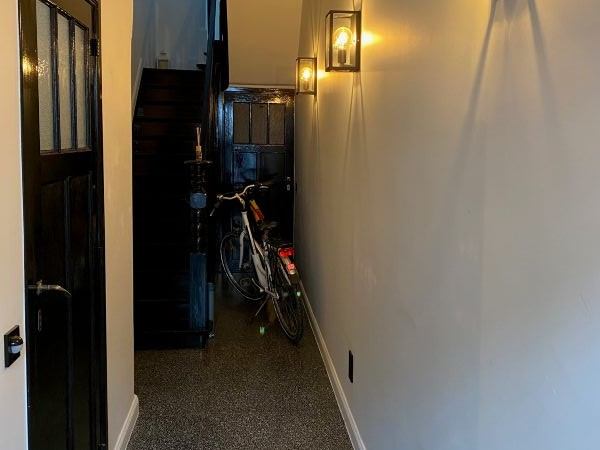
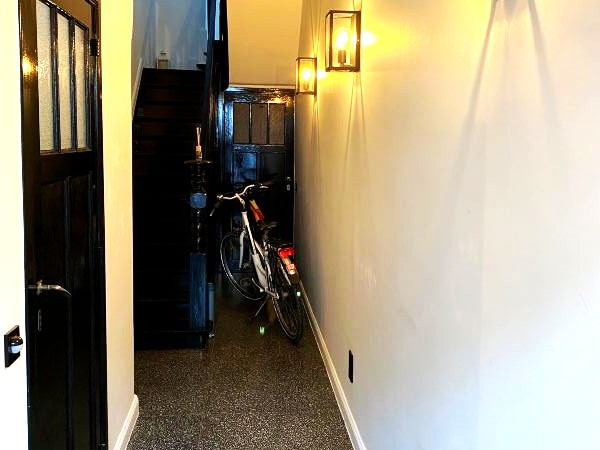
Add files via upload

diff --git a/index.html b/index.html
@@ -3,24 +3,32 @@
 <head>
 <meta charset="UTF-8" />
 <meta name="viewport" content="width=device-width, initial-scale=1.0" />
+<meta name="format-detection" content="telephone=no">  
 <title>Vakantiewoning Nieuwpoort-Stad</title>
 <style>
 body {
 font-family: Arial, sans-serif;
-margin: 0;
+margin: 0 auto;
 padding: 20px;
 background-color: #f9f9f9;
+max-width: 500px;
+color: #333333;
 }
 h1 {
 text-align: center;
 margin-bottom: 40px;
+max-width: 450px;
+color: #1a1a1a;
 }
 .item {
 margin-bottom: 30px;
+text-align: justify;
+max-width: 450px;
 background: #fff;
 padding: 15px;
 border-radius: 8px;
 box-shadow: 0 2px 20px rgba(0,0,0,0.1);
+color: #4D4D4D;
 }
 .item img {
 max-width: 100%;
@@ -28,26 +36,28 @@ border-radius: 8px;
 }
 .item2 {
 margin-top: 40px;
-padding: 30px;
+margin-bottom: 40px;
+text-align: justify;
+max-width: 450px;
 background: #D6D6D6;
+padding: 15px;
 border-radius: 8px;
+box-shadow: 0 2px 20px rgba(0,0,0,0.1);
+color: #1a1a1a;
 }
 </style>
 </head>
 <body>
-
-<h1>Vakantiewoning Nieuwpoort-Stad</h1>
-
-
+<h1>Vakantiewoning<br>Nieuwpoort-Stad</h1>
 
 <div class="item">
 <img src="vakantiewoning.jpg" alt="Vakantiewoning">
-<p>Leuke vakantiewoning gelegen in Nieuwpoort-Stad, voor maximum 4 personen, adres Duinkerkestraat 51, een rustige straat dicht bij het historisch centrum en marktplein.</p>
+<p>Genieten van de verkwikkende zeelucht en voorbij glijdende zeemeeuwen in deze leuke vakantiewoning, voor max 4 personen, adres Duinkerkestraat 51, een rustige straat dichtbij het historisch centrum en marktplein van Nieuwpoort-Stad.</p>
 </div>
 
 <div class="item">
 <img src="voorplaats.jpg" alt="Voorplaats">
-<p>De klassieke "voorplaats" om tot rust te komen.</p>
+<p>Starten doen we in de klassieke voorplaats waar de rust ons overvalt.</p>
 </div>
 
 <div class="item">
@@ -57,22 +67,17 @@ border-radius: 8px;
 
 <div class="item">
 <img src="eetplaats.jpg" alt="Eetplaats">
-<p>Eindigend in de lichtrijke eetruimte naast de open keuken.</p>
+<p>Eindigend in de lichtrijke eetruimte, inclusief kinderstoel, naast de open keuken.</p>
 </div>
 
 <div class="item">
 <img src="keuken.jpg" alt="Keuken">
-<p>Volledig uitgeruste moderne keuken met SMEG fornuis, oven, microgolf, frigo, vaatwas, koffiezet, servies, ...</p>
+<p>Volledig uitgeruste moderne keuken met SMEG fornuis, oven, microgolf, frigo, vaatwas, koffiezet, servies, allerhande keukengerief. Ook warme koffie en geurige thee staan voor je klaar.</p>
 </div>
 
 <div class="item">
 <img src="tuin.jpg" alt="Tuin">
-<p>Gezellig stadstuintje met overdekt terras.</p>
-</div>
-
-<div class="item">
-<img src="zonneterras.jpg" alt="Zonneterras">
-<p>Achteraan de vakantiewoning vinden we ook een aangenaam zonneterras om te genieten van de ondergaande avondzon.</p>
+<p>Gezellig en volledig groen ommuurd stadstuintje met overdekt terras.</p>
 </div>
 
 <div class="item">
@@ -82,22 +87,22 @@ border-radius: 8px;
 
 <div class="item">
 <img src="belpop.jpg" alt="Belpop">
-<p>Een ruime verzameling belpop vinyl, zowel hedendaags als helemaal terug tot in de jaren 80, klinkt door de bluetooth Bose luidsprekers.</p>
+<p>Een ruime verzameling Belpop vinyl, zowel hedendaags als helemaal terug tot in de heerlijke jaren 80, klinkt door de bluetooth Bose luidspreker.</p>
 </div>
 
 <div class="item">
 <img src="strips.jpg" alt="Strips">
-<p>Ga terug in de tijd en herontdek de strips van vroeger: De Rode Ridder, Suske & Wiske, Bakelandt, Robert & Bertrand, Jommeke, Kiekeboe, Yoko Tsuno, ...</p>
+<p>Herontdek een reeks oude strips: De Rode Ridder, Suske & Wiske, Bakelandt, Robert & Bertrand, Jommeke, Kiekeboe, Yoko Tsuno, FC De Kampioenen, ...</p>
 </div>
 
 <div class="item">
 <img src="gezelschapspel.jpg" alt="Gezelschapspel">
-<p>Neem de tijd om de snuisteren in de kast met gezelschapspelen, je hebt het door, er wordt geen tv gekeken in de vakantiewoning.</p>
+<p>Neem de tijd om de snuisteren in de kast met gezelschapsspelen, je hebt het door, er wordt geen tv gekeken in de vakantiewoning, ook geen internet aansluiting zodat je volop kunt genieten van elkaars gezelschap.</p>
 </div>
 
 <div class="item">
 <img src="slaapkamer1.jpg" alt="Slaapkamer1">
-<p>De masterbedroom, met twijfelaarbed, zelf te voorzien van verse lakens.</p>
+<p>De masterbedroom, met twijfelaarbed, verse lakens zijn voorzien.</p>
 </div>
 
 <div class="item">
@@ -107,19 +112,18 @@ border-radius: 8px;
 
 <div class="item">
 <img src="badkamer.jpg" alt="Badkamer">
-<p>Moderne badkamer met instapdouche en lavabo, handdoeken zelf mee te brengen.</p>
+<p>Moderne badkamer met instapdouche en lavabo, uitgerust met verse handdoeken, en voorzien van shampoo, douchegel en zeep.</p>
 </div>
 
 <div class="item">
 <img src="fietsen.jpg" alt="Fietsen">
-<p>Fietsen vinden hun plaats in de inkom hal, er is ruimte voor 2 fietsen, meer fietsen kunnen ook op overdekt terras staan in de tuin.</p>
+<p>Fietsen vinden hun plaats in de inkom hal.</p>
 </div>
 
 <div class="item">
 <img src="duinkerkestraat.jpg" alt="Duinkerkestraat">
 <p>Steeds gratis parkeermogelijkheid voor de deur, in de straat, ...</p>
 </div>
-
 
 <div class="item">
 <img src="opladen.jpg" alt="Opladen">
@@ -128,12 +132,12 @@ border-radius: 8px;
 
 <div class="item">
 <img src="marktplein.jpg" alt="Marktplein">
-<p>Het lekkere marktplein van Nieuwpoort-Stad met zijn vele gezellige restaurants vind je op 300m wandelen.</p>
+<p>Het charmante marktplein van Nieuwpoort-Stad met zijn vele gezellige restaurants vind je op 300m wandelen.</p>
 </div>
 
 <div class="item">
 <img src="frontzate.jpg" alt="Frontzate">
-<p>De Duinkerkestraat in Nieuwpoort-Stad ligt ook letterlijk aan de start van de Frontzate, een uniek fietspad tussen Nieuwpoort en Diksmuide. Dit prachtig recht traject, ooit de spoorlijn die de kust met het hinterland verbond, loopt vandaag als een rustige groene corridor door polders en kreken.</p>
+<p>De Duinkerkestraat in Nieuwpoort-Stad ligt ook letterlijk aan de start van de Frontzate, een uniek fietspad tussen Nieuwpoort en Diksmuide, ooit de spoorlijn die de kust met het hinterland verbond, loopt vandaag als een rustige groene corridor door de polders.</p>
 </div>
 
 <div class="item">
@@ -143,7 +147,7 @@ border-radius: 8px;
 
 <div class="item">
 <img src="vismijn.jpg" alt="Vismijn">
-<p>Op 700m wandelen vinden we de vismijn van Nieuwpoort-Stad, de kortste weg voor de verse vis van de lokale vissers naar handelaars en horeca.</p>
+<p>Op 700m wandelen vinden we de vismijn van Nieuwpoort-Stad, de kortste weg voor verse vis van de lokale vissers naar handelaars en horeca.</p>
 </div>
 
 <div class="item">
@@ -153,26 +157,28 @@ border-radius: 8px;
 
 <div class="item">
 <img src="vaargeul.jpg" alt="Vaargeul">
-<p>Wie gewoon wil wandelen van Nieuwpoort-Stad naar Nieuwpoort-Bad kan dit ook doen langs de vaargeul, een 3km lang wandelpad dat je helemaal tot aan het strand in Nieuwpoort-Bad brengt.</p>
+<p>Wie gewoon wil wandelen van Nieuwpoort-Stad naar Nieuwpoort-Bad kan dit ook doen langs de vaargeul, een 3km lang wandelpad dat je helemaal tot aan het strand brengt.</p>
 </div>
 
 <div class="item">
+<img src="staketsel.jpg" alt="Staketsel">
+<p>Laat je betoveren door één van de absolute parels van onze Belgische kust, Nieuwpoort-Bad.</p>
+</div>
+  
+<div class="item">
 <img src="wandelen.jpg" alt="Wandelen">
-<p>Diverse wandelroutes zowel ter plaatse vertrekkend of via de Kusttram, zowel uitgepijld als via knooppunten. Map met overzicht in vakantiewoning.</p>
+<p>Vele wandelroutes zowel ter plaatse vertrekkend of via de Kusttram, zowel uitgepijld als via knooppunten. Map met overzicht in vakantiewoning.</p>
 </div>
 
 <div class="item">
 <img src="mountainbike.jpg" alt="Mountainbike">
-<p>Voor de sportievelingen hebben we de groene mountainbike lus van Nieuwpoort, het Michel Pollentier parkoers is 33km lang en passeert aan de vakantiewoning, met een mooie afwisseling van polders, duinen én strand</p>
+<p>Voor de sportievelingen hebben we de groene mountainbike lus van Nieuwpoort, het Michel Pollentier parkoers is 33km lang en passeert aan de vakantiewoning, met een mooie afwisseling van polders, duinen én strand.</p>
 </div>
 
 <div class="item2">
 <h2>Praktisch</h2>
-<p>De vakantiewoning wordt enkel verhuurd aan vrienden en kennissen, aan de vaste prijs van 70€ per nacht, sleutels af te halen in Kortrijk, geen strikte regels rond timing inchecken of uitchecken. Aanvraag tot reservatie via e-mail (ignace_opsommer@yahoo.com) of Whatsapp (0496 593 334).</p>
+<p>De vakantiewoning wordt enkel verhuurd aan vrienden en kennissen, aan de vaste prijs van 75€ per nacht, sleutels beschikbaar in sleutelkluis ter plaatse. Aanvraag tot reservatie via mail (ignace_opsommer@yahoo.com) of Whatsapp (0496 593 334).</p>
 </div>
-
-<br>
-</br>
 
 <div class="item">
 <img src="kaart.jpg" alt="Kaart">
